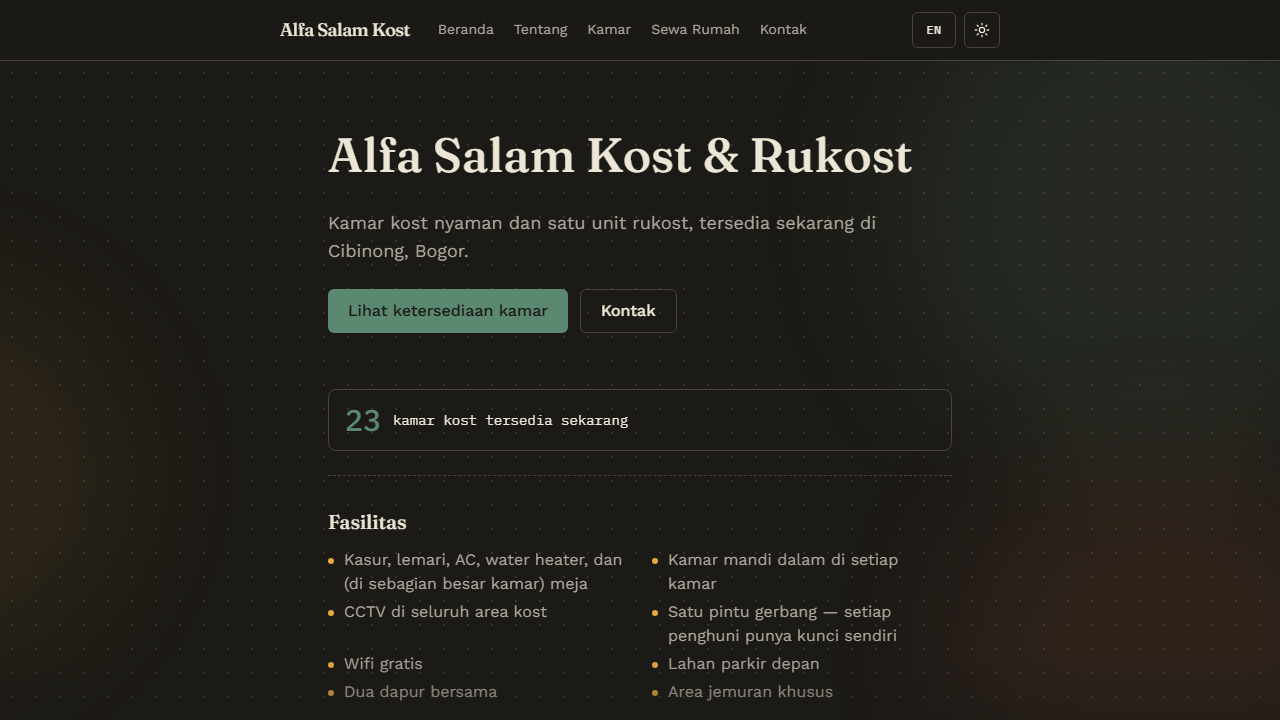
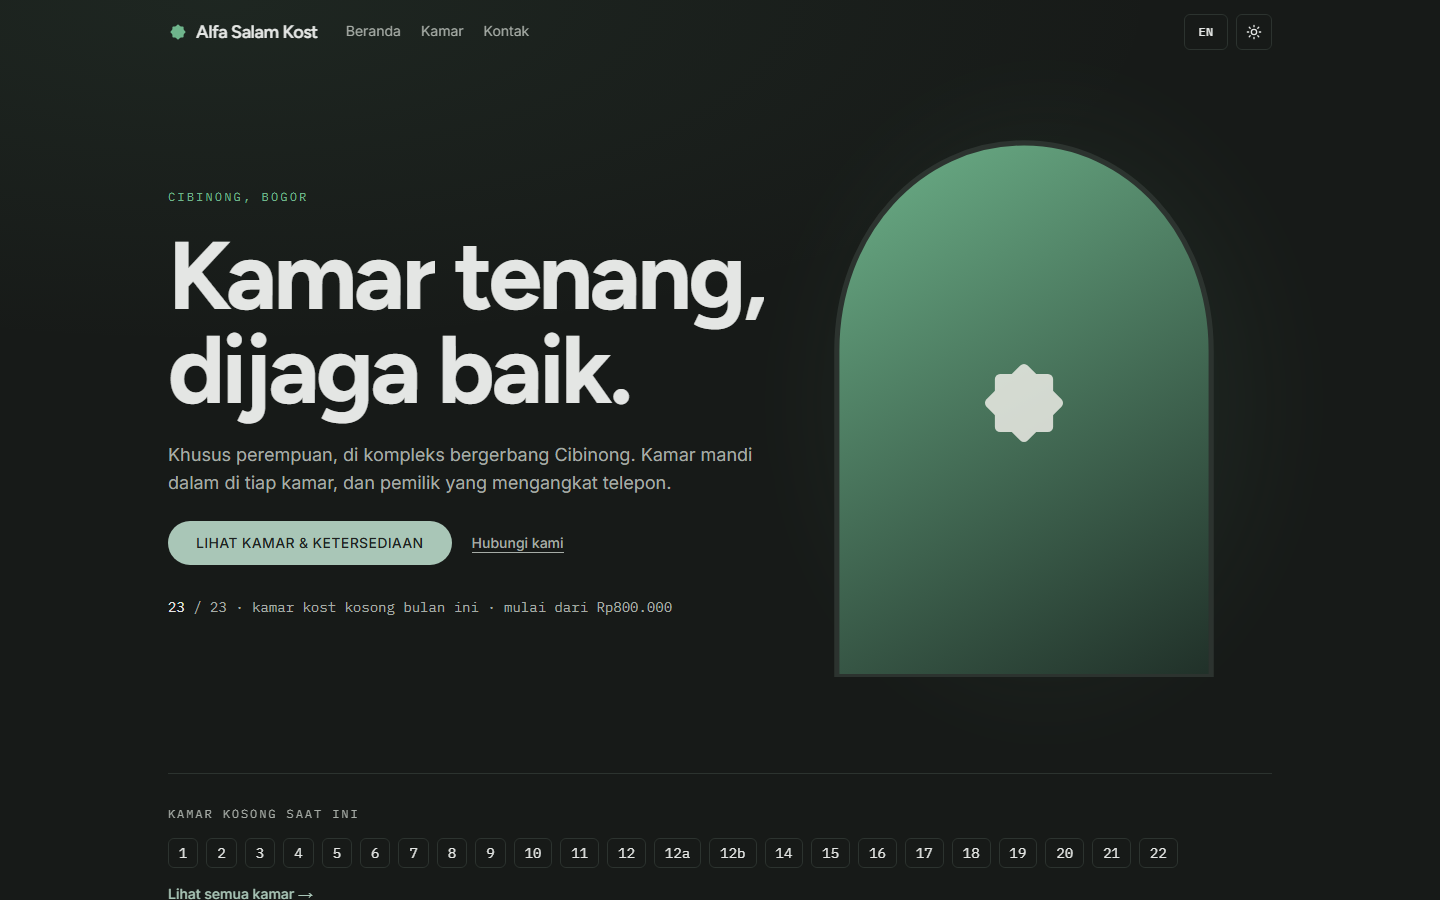
docs: refresh README + screenshot for current live state
New homepage screenshot (redesigned dark hero). README: drop "work in progress", add live URLs, note the /rukost+/about redirects and the dependency-free motion system.

Claude-Session: https://claude.ai/code/session_01DHB24cNdyMg2tZNqwteL3p

diff --git a/README.md b/README.md
@@ -1,12 +1,19 @@
 # Alfa Salam Kost & Rukost — Site
 
-![Homepage screenshot](public/readme/homepage.png)
+[![Homepage screenshot](public/readme/homepage.png)](https://alfasalamkost.aljuhaeda.com)
 
-**Work in progress.** Public-facing site for a boarding-house (kost) and
-rental-house (rukost) business — `/rooms` and `/rukost` are live against a
-Supabase backend; `/about` and `/contact` are still placeholder copy.
+Public-facing site for a boarding-house (kost) and rental-house (rukost)
+business in Cibinong, Bogor. Live at
+**[alfasalamkost.aljuhaeda.com](https://alfasalamkost.aljuhaeda.com)**
+(also `alfa-salam-kost-site.vercel.app`, auto-deployed from `master`).
 
-See [PROGRESS.md](PROGRESS.md) for current status and next steps.
+`/` and `/rooms` render live rooms and month availability from a shared
+Supabase project; `/contact` carries the real contact details. `/rukost`
+redirects into `/rooms#rukost`, `/about` into `/`. Companion to the staff
+[alfa-salam-kost-dashboard](https://github.com/aljuhaeda/alfa-salam-kost-dashboard).
+
+Full redesign ("Rumah × Pelita") with a dependency-free Awwwards-style
+motion pass shipped 2026-08-29. See [PROGRESS.md](PROGRESS.md) for status.
 
 ## Getting started
 
@@ -23,3 +30,5 @@ Requires a `.env.local` with `NEXT_PUBLIC_SUPABASE_URL` and
 
 - Next.js 16, React 19, Tailwind CSS
 - Supabase (anon-key client only, no auth)
+- Dependency-free motion — CSS + IntersectionObserver + rAF, gated on
+  `prefers-reduced-motion`, content renders fully visible with no JS
